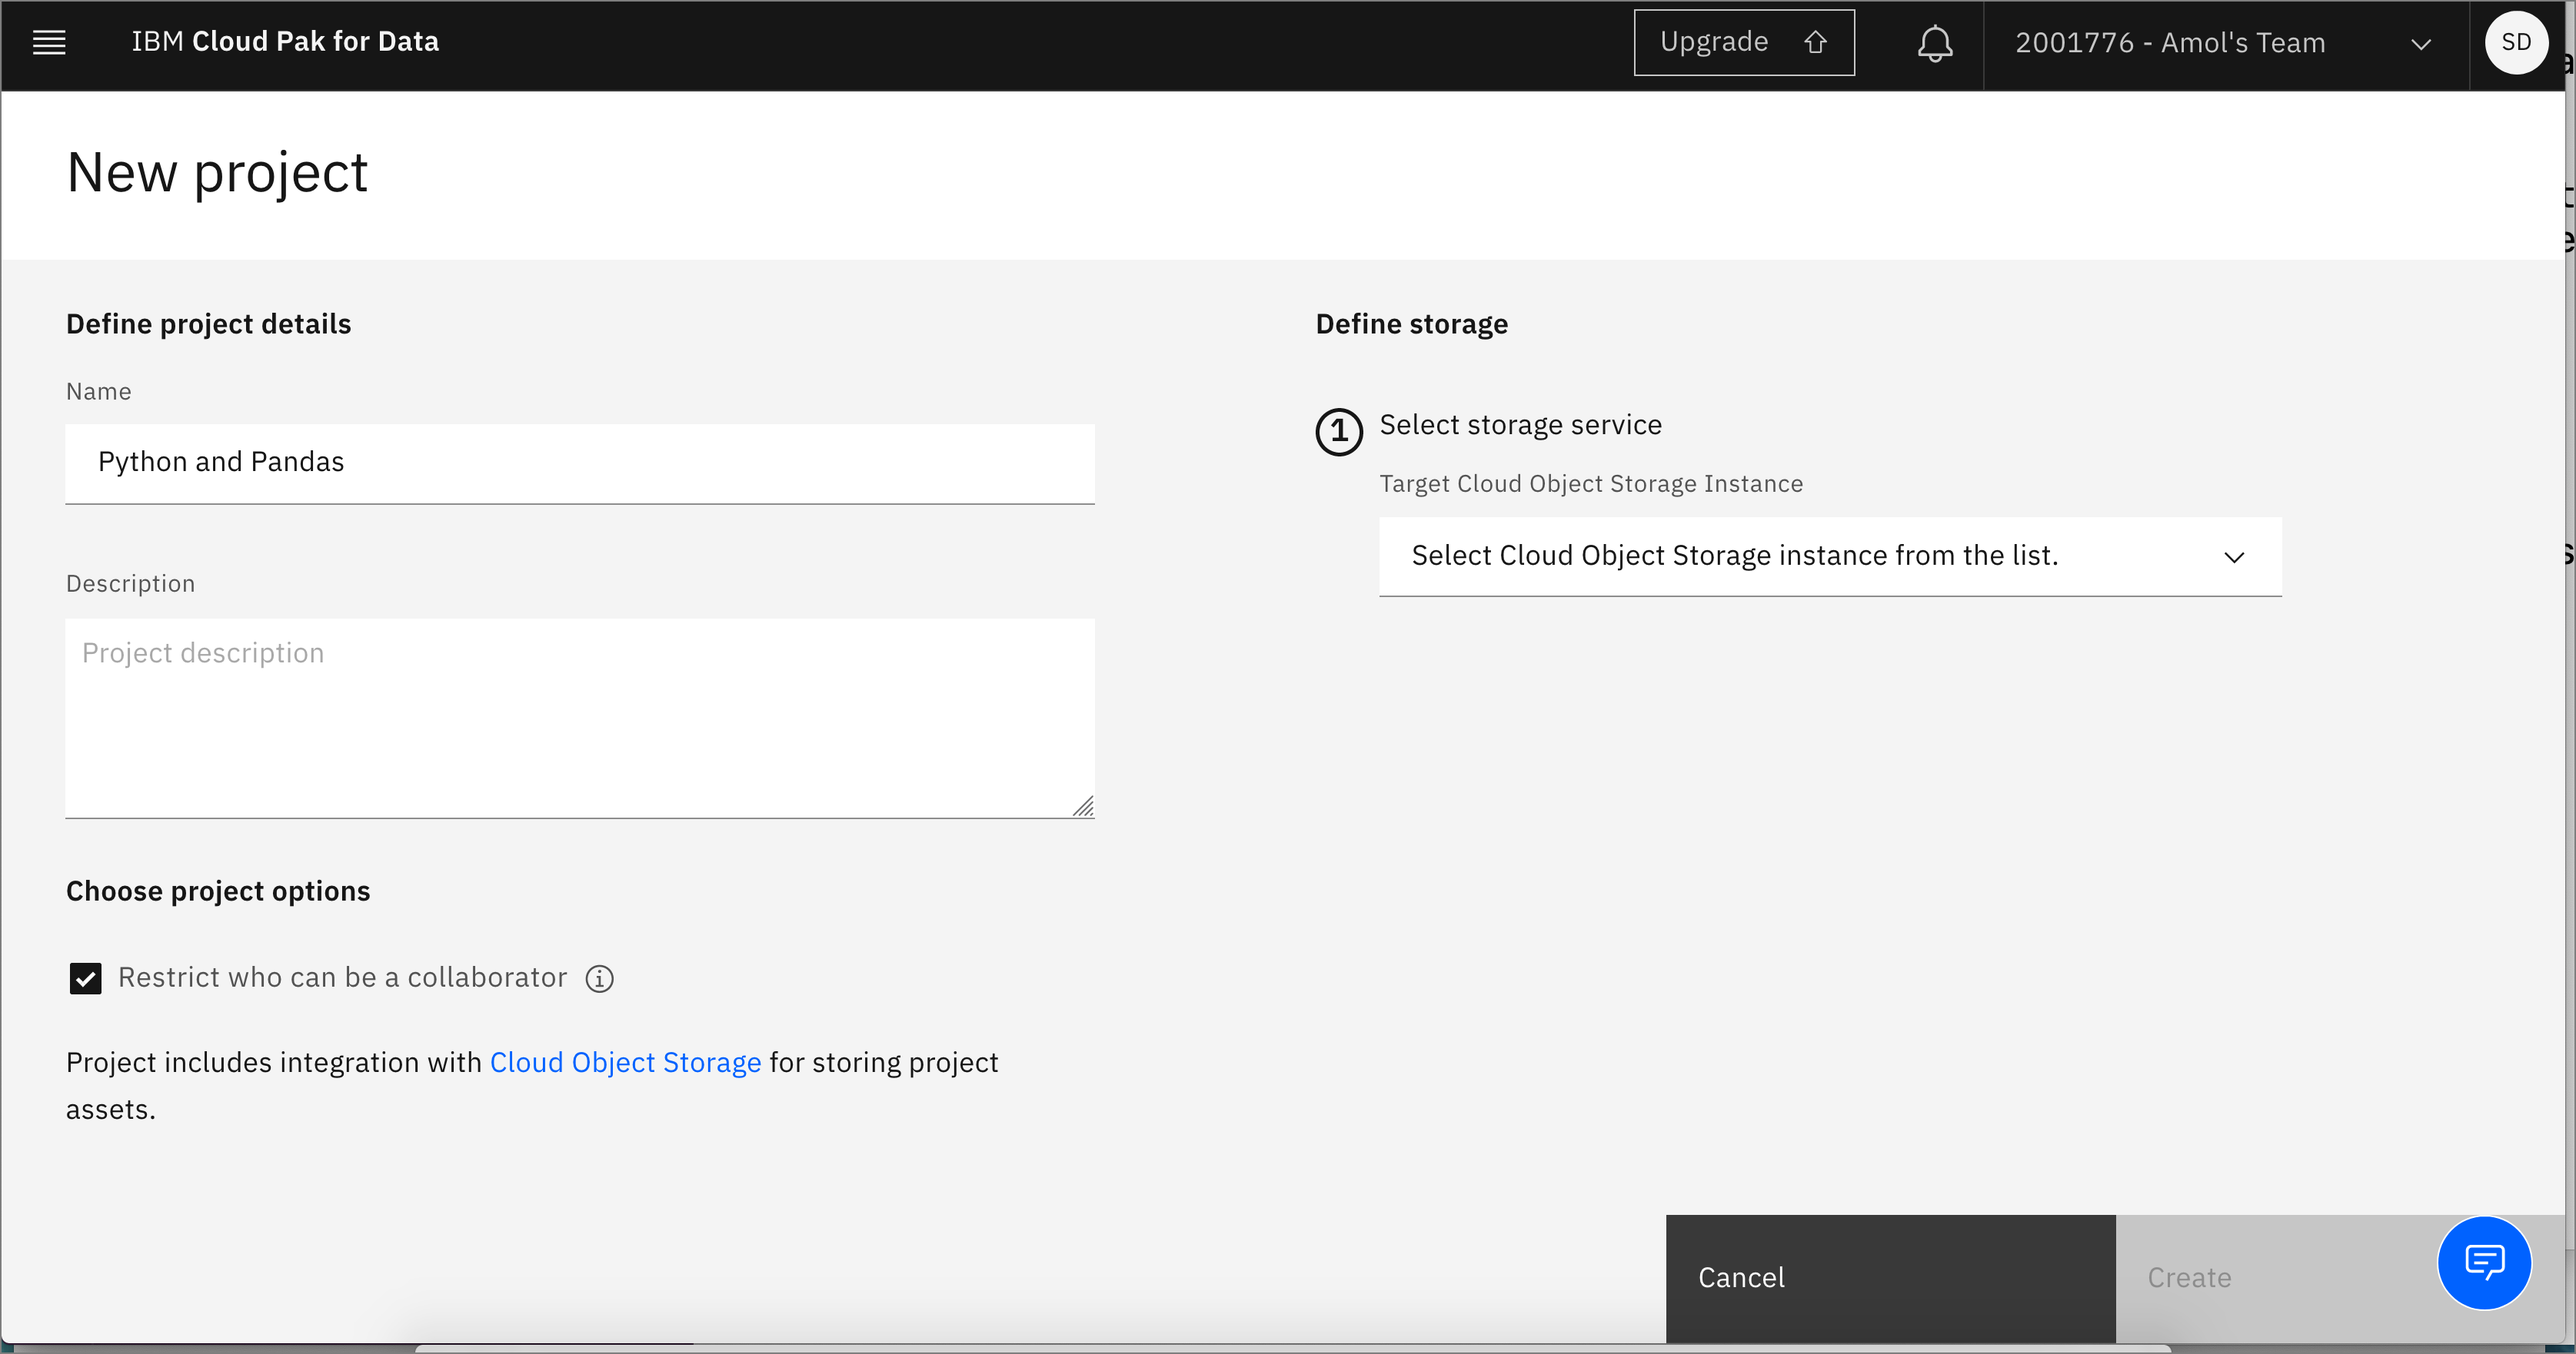
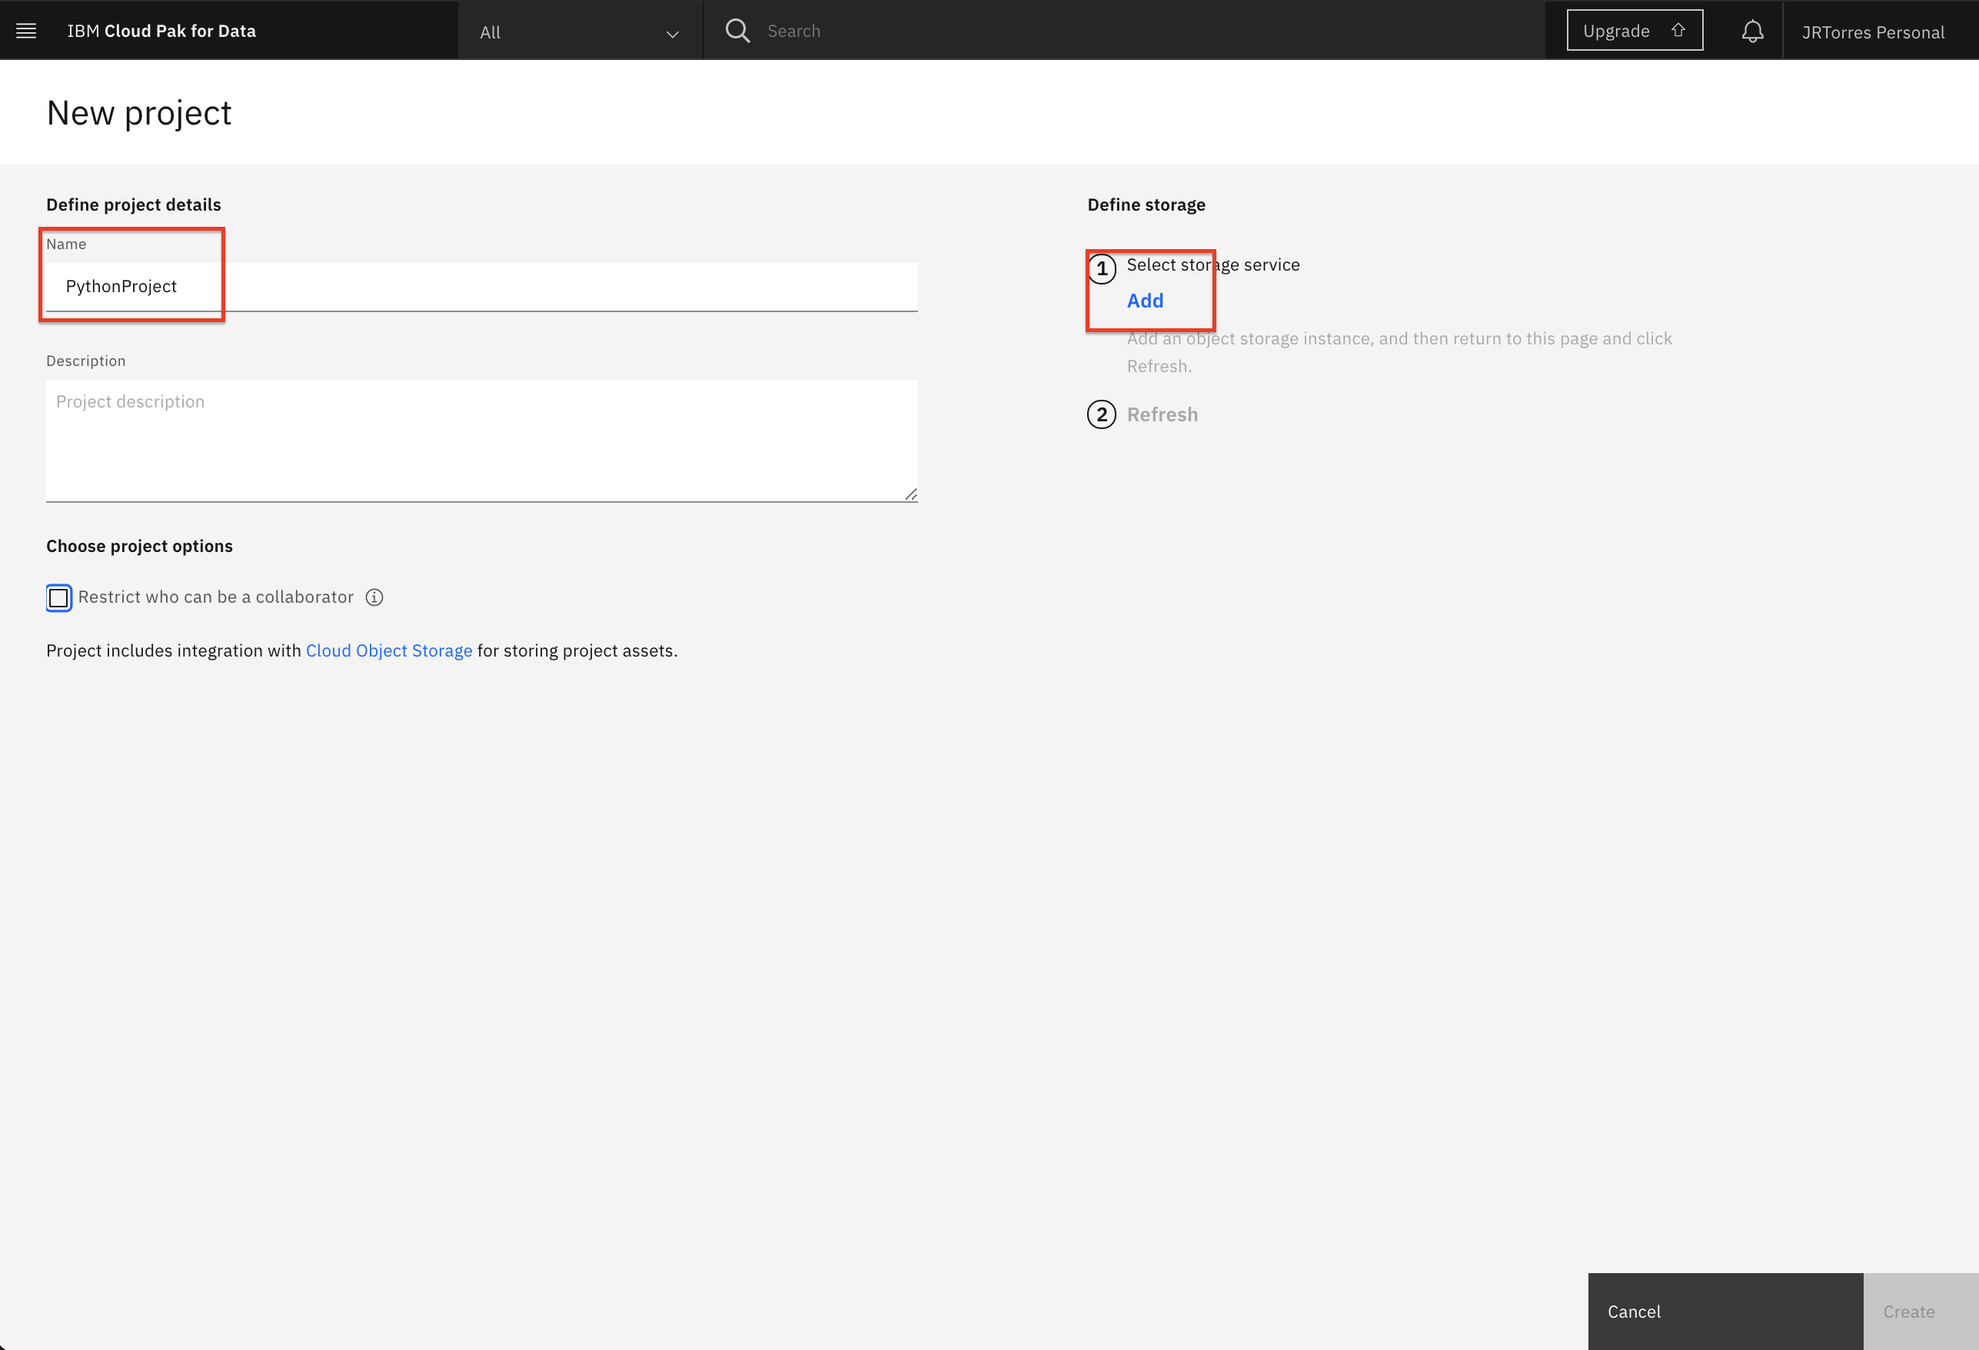
Update Prework
- Added details to CPD service creation and object storage creation (consistent with instructions used in ddc)

diff --git a/docs/project-setup/README.md b/docs/project-setup/README.md
@@ -3,32 +3,62 @@
 This part of the workshop is to provide basic setup for your project on Cloud Pak for Data as a Service.
 
 1. [Sign up for IBM Cloud Pak for Data as a service](#1-sign-up-for-ibm-cloud-pak-for-data-as-a-service)
-1. [Project setup](#2-project-setup)
+1. [Setup a project](#2-project-setup)
 
 ## 1. Sign up for IBM Cloud Pak for Data as a service
 
-* If you don't already have an IBM Cloud account, [sign up for IBM Cloud](https://dataplatform.cloud.ibm.com):
+* Launch a web browser and navigate to [IBM Cloud Pak for Data](https://dataplatform.cloud.ibm.com/registration/stepone?context=cpdaas&apps=all&preselect_region=true)
 
-![Sign up](../assets/images/setup/sign-up.png)
+* You can leave the pre-selected region or select the region nearest to you.
 
-* Pick the region nearest to you and create your account:
+* You can then log in using your IBMid if you have one or create a new IBMid.
 
-![Create account](../assets/images/setup/create-account.png)
+  * If you do not have an IBMid, enter your email address and accept the terms checkbox in the `Create a new IBM Cloud Account` section. Then click the `Next` button to complete the process of creating a new account.
+  * If you are a returning user, click on the `Log in with your IBMid` link.
+    > **Note:** If you are a returning user and you have watson services in a different region than the pre-selected one, you will see an error message telling you to select that region instead. See the [FAQ](../faq/README.md) section for help.
+
+![CPDaaS login](../assets/images/setup/new-signup-page.png)
+
+* The services required for IBM Cloud Pak for Data will be automatically provisioned for you. Once you see a message that says that the apps are ready to use, click on `Go to IBM Cloud Pak for Data`.
+
+![CPDaaS ready](../assets/images/setup/cpdaas-ready.png)
 
 ## 2. Project setup
 
-* Once you are on [Cloud Pak for Data as a Service](https://dataplatform.cloud.ibm.com) click on the left top corner (☰) hamburger menu and select `Projects`:
+In Cloud Pak for Data, we use the concept of a project to collect / organize the resources used to achieve a particular goal (resources to build a solution to a problem). Your project resources can include data, collaborators, and analytic assets like notebooks and models, etc.
 
-![Select projects](../assets/images/setup/cpd-create-project.png)
+* Once you are on [Cloud Pak for Data as a Service](https://dataplatform.cloud.ibm.com). Click on the (☰) navigation menu on the top left, expand *Projects* and click on the *View all projects* link.
 
-* Click the tile for `New project`:
+![(☰) Menu -> Projects](../assets/images/setup/menu-projects.png)
 
-![New project](../assets/images/setup/cpd-new-project.png)
+* Click on the `New project` button on the top. *Note: If you already have existing projects, your screen will look different from the screenshot below. In that case, click on the `New project +` button on the top right.*
+
+![Start a new project](../assets/images/setup/cpd-new-project.png)
 
 * Click on `Create an empty project`:
 
 ![Create empty project](../assets/images/setup/cpd-create-empty-project.png)
 
-* Give your project a name and optional description. Choose an existing Cloud Object Store or create one if needed, then click `Create`:
+* Give the project a name and optional description. You also need to provide an object storage instance for this project. If you have not previously created a Cloud Object Storage instance in your IBM Cloud account, you can create one now by clicking `Add`. *Note: If you do have an existing storage service, select it from the drop down list and click the `Create` button.*
 
-![Name project and choose object store](../assets/images/setup/cpd-project-name.png)
+![Project name](../assets/images/setup/cpd-project-name.png)
+
+* A new tab opens up, where you can create the Cloud Object Service. By default, a `Lite` (Free) plan will be selected. Scroll down and update the name of your Cloud Object Storage service if you wish, and click `Create`.
+
+![Create COS instance](../assets/images/setup/create-cos-instance.png)
+
+* The browser tab will automatically close when the Cloud Object Storage instance has been created. Back on IBM Cloud Pak for Data as a Service, click `Refresh`.
+
+![Refresh COS](../assets/images/setup/refresh-cos.png)
+
+* The newly created Cloud Object Storage instance will now be displayed under "Storage". Click `Create` to finish creating the project.
+
+![Create project](../assets/images/setup/create-project.png)
+
+* Once the project is succesfully created you will be brought to the project overview page (*Note:You may be presented with a project tour pop up window, go ahead and close it*)
+
+![Import project success](../assets/images/setup/project-create-success.png)
+
+## Conclusion
+
+At this point we are done with this section. We have completed creating an IBM Cloud account, a Cloud Pak for Data as a Service instance, and the project that we will use in the rest of this workshop.
